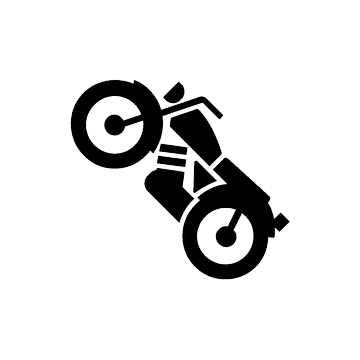
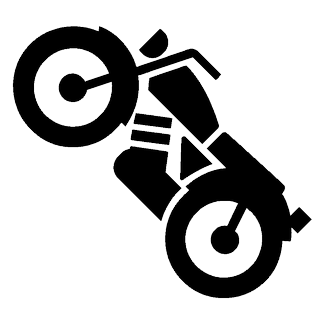
Scope motorcycle wallpaper to home-page content area only
Move the drifting-motorcycle wallpaper off the full-page body layer and
into the content column (.roadway) so it sits behind the posts while the
opaque sticky header and footer overlap it. Gate it to the home page via
a body.is-home class (page.url == '/'), so note pages have no wallpaper.

Regenerate the tile smaller with tighter padding (bike 300 in a 324 tile)
and display it at 70px for a denser field of little bikes.

Changed region(s): [[0.0309, 0.0617, 0.9568, 0.9259], [0.2469, 0.2778, 0.2778, 0.3086]]

diff --git a/_sass/garden.scss b/_sass/garden.scss
@@ -101,30 +101,34 @@ html::-webkit-scrollbar-thumb {
 html::-webkit-scrollbar-thumb:hover { background: var(--accent); }
 
 // ===========================================================================
-//  Moving wallpaper — a field of 45°-tilted motorcycles drifting slowly toward
-//  ~10-11 o'clock (up and to the left), like riders heading off up the road.
-//  Fixed layer behind ALL content; the tile is a pre-rotated silhouette, so we
-//  just repeat it and slide background-position by exactly one tile for a
-//  seamless infinite loop. Faint by design so it never fights the text.
+//  Moving motorcycle wallpaper — HOME PAGE ONLY (body.is-home), living in the
+//  CONTENT area's background (behind the posts). The sticky header and the
+//  footer are opaque, so they simply overlap it. Never on note pages.
+//  The tile is a pre-rotated silhouette; we repeat it and slide background-
+//  position one full tile up-and-left per cycle => seamless drift toward
+//  ~10-11 o'clock. Kept faint so it never fights the content.
+//  It lives at z-index:-1 inside the roadway's own stacking context, so it
+//  paints above the page background but below every post/card.
 // ===========================================================================
-body::before {
-  content: ""; position: fixed; inset: 0; z-index: -1; pointer-events: none;
+.is-home .roadway { position: relative; isolation: isolate; overflow: hidden; }
+.is-home .roadway::before {
+  content: ""; position: absolute; inset: 0; z-index: -1; pointer-events: none;
   background-image: url("/assets/images/moto-tile.png");
   background-repeat: repeat;
-  background-size: 180px 180px;
-  opacity: .05;                       // light mode: black bikes on the cream asphalt
+  background-size: 70px 70px;
+  opacity: .08;                       // black bikes over the cream content bg
   will-change: background-position;
-  animation: moto-wallpaper 48s linear infinite;
+  animation: moto-wallpaper 36s linear infinite;
 }
 // night mode: invert the black silhouettes to a soft light grey on the dark bg
-:root[data-theme="dark"] body::before { filter: invert(1); opacity: .06; }
+:root[data-theme="dark"] .is-home .roadway::before { filter: invert(1); opacity: .10; }
 // travel one full tile up-and-left per cycle => seamless, heading ~10:30
 @keyframes moto-wallpaper {
   from { background-position: 0 0; }
-  to   { background-position: -180px -180px; }
+  to   { background-position: -70px -70px; }
 }
 // respect riders who'd rather the road hold still
-@media (prefers-reduced-motion: reduce) { body::before { animation: none; } }
+@media (prefers-reduced-motion: reduce) { .is-home .roadway::before { animation: none; } }
 
 // --- App shell --------------------------------------------------------------
 .hwy-app { min-height: 100vh; display: flex; flex-direction: column; }

diff --git a/_layouts/default.html b/_layouts/default.html
@@ -10,7 +10,7 @@
       try { if (localStorage.getItem('theme') === 'dark') document.documentElement.setAttribute('data-theme','dark'); } catch (e) {}
     </script>
   </head>
-  <body>
+  <body class="{% if page.url == '/' %}is-home{% endif %}">
     <div class="hwy-app">
       {% include header.html %}
       <div class="hwy-body">